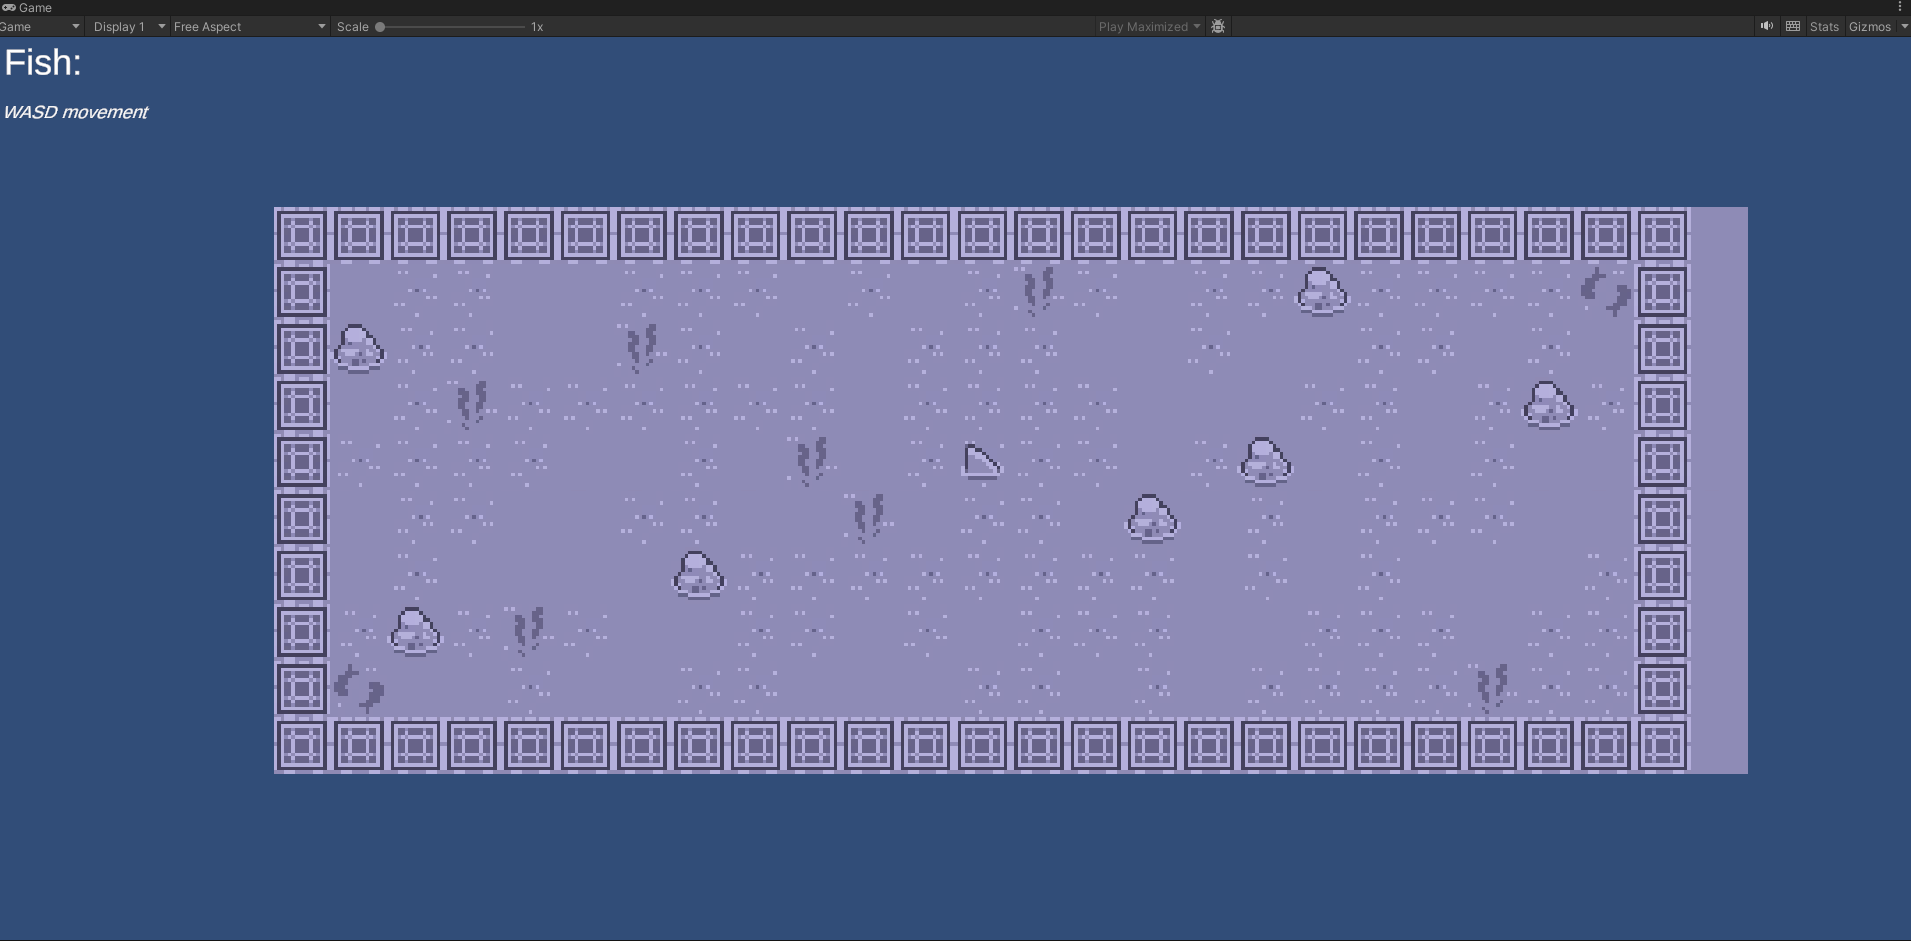
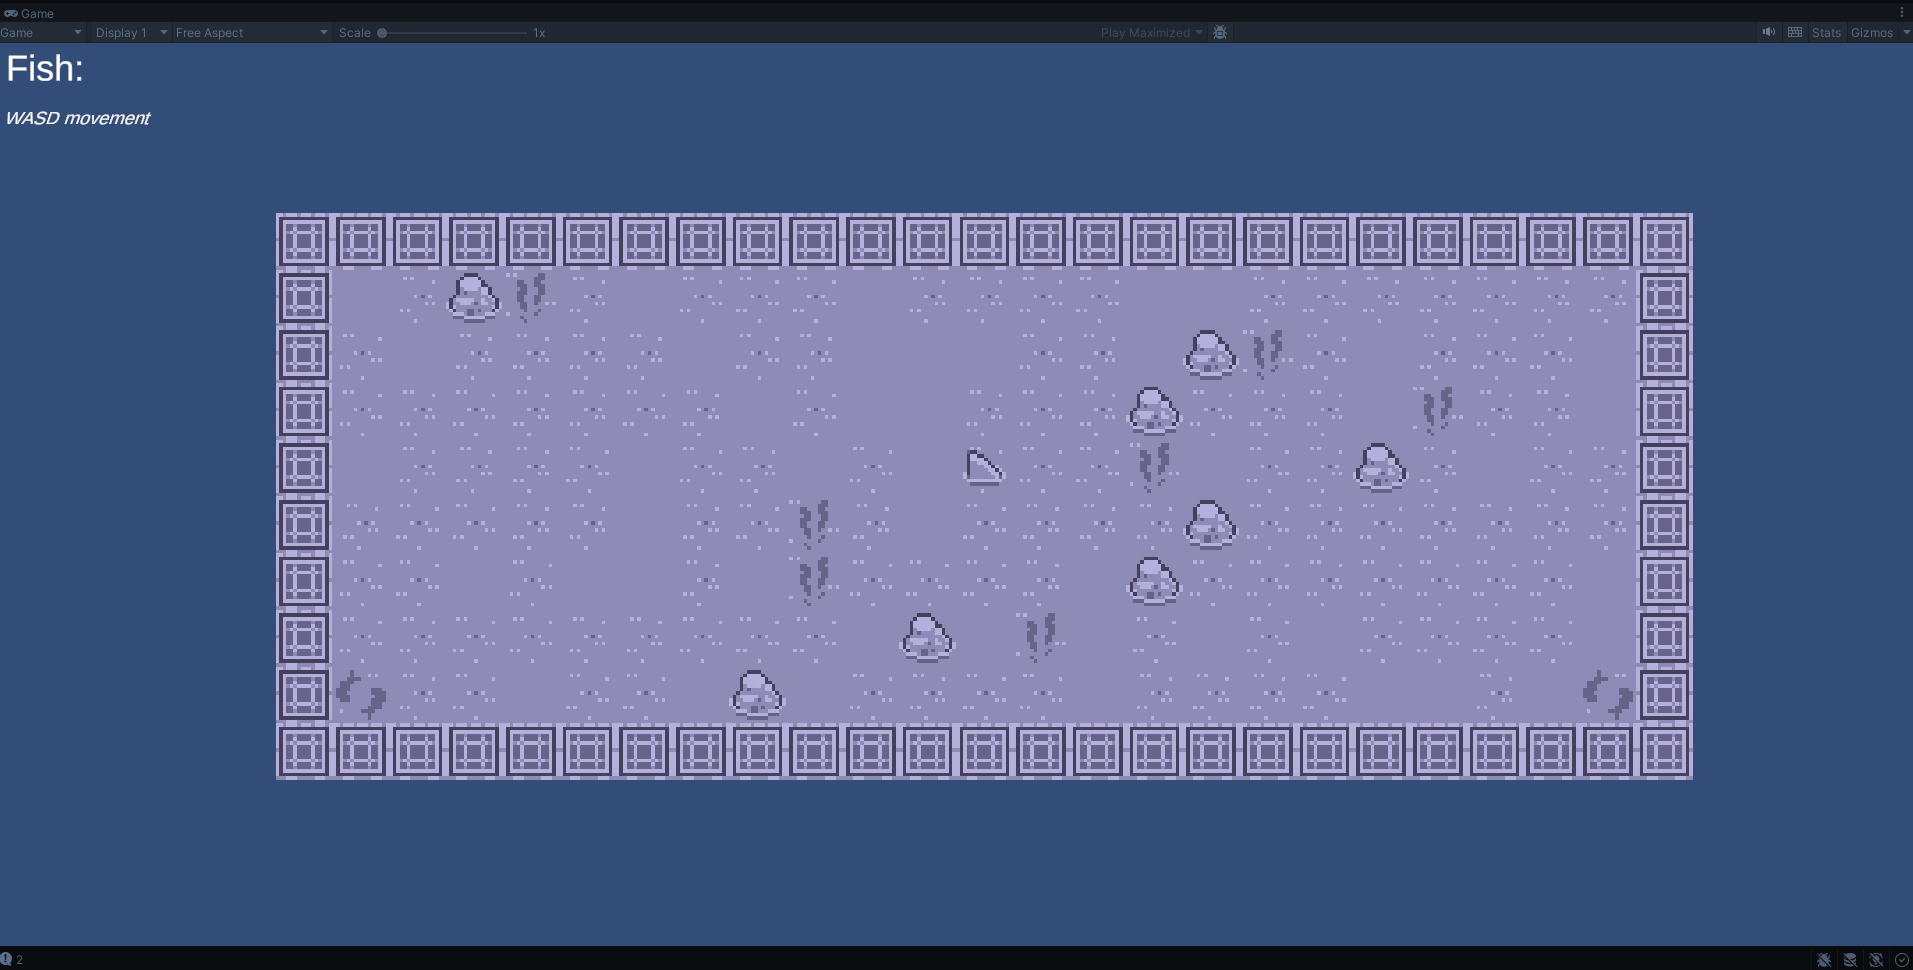
Added SQLite Database to Projects
Fixed the Tile Map picture too.

diff --git a/projects.md b/projects.md
@@ -6,3 +6,10 @@ permalink: /projects/
 
 ## Procedural Tile Map Generation
 ![Alt text](/assets/images/TileMapSS.png)
+
+This project was super rewarding. I enjoy maniupulating data to make it do something for me, bonus points if I can see the result; learning how to turn simple characters from a text file into something that has some visual appeal was right up my alley. I struggled getting a solid grasp on when to write to a file and when I didn't have to, in the beginning I was doing most everything based on the text file itself and choosing not to store it's data it a multi-dimensional array for further use. This led me to understand File I/O in C# on a deeper level, however I ultimately decided to rewrite my codebase so it could satisfy the outcomes of the project.
+
+## SQLite Database Parsing
+![Alt text](/assets/images/SQLdataParseSS.png)
+
+Databases are quite cool, I love when things are neat and organized so being able create and sort this SQLite database hasn't only been a learning experience it's also been therapeutic is a way. I'm also starting to see the numerous scenarios in the real world that a database of similar scale to, if not a bit larger than, this one could prove extremely useful.
